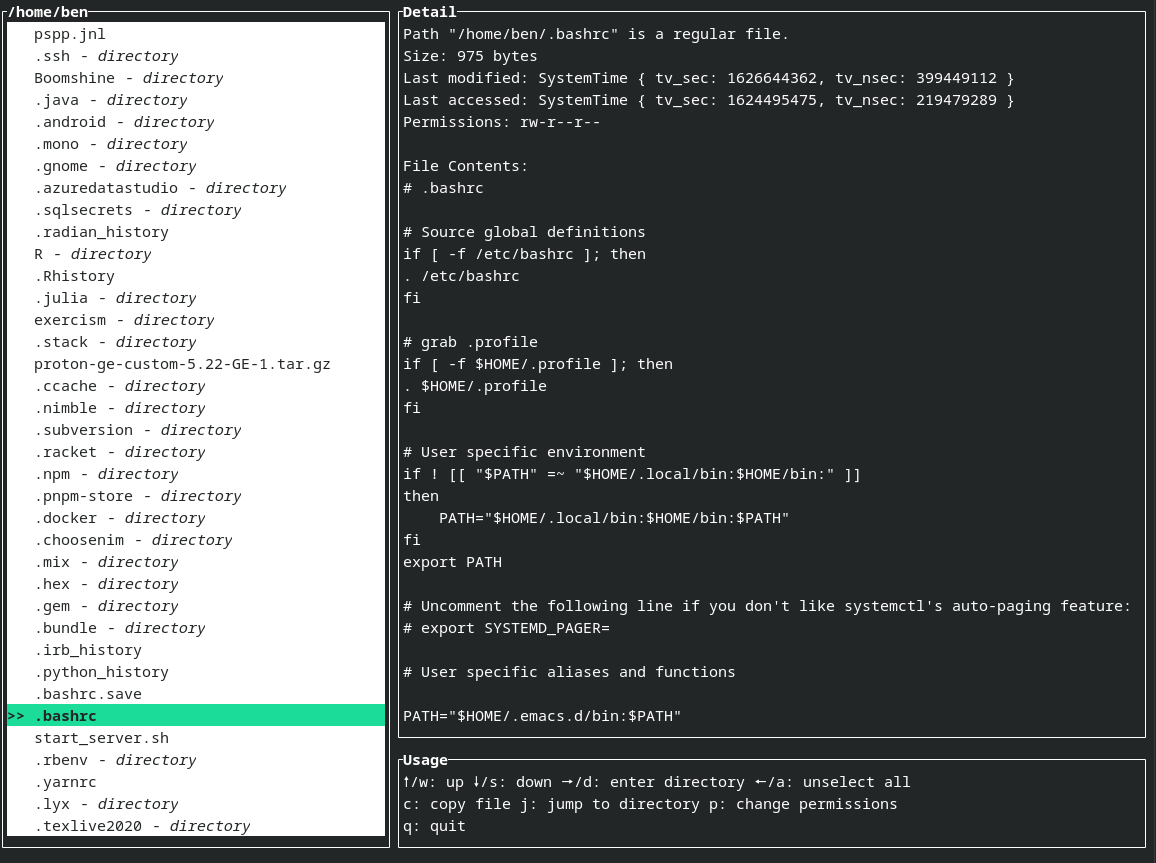
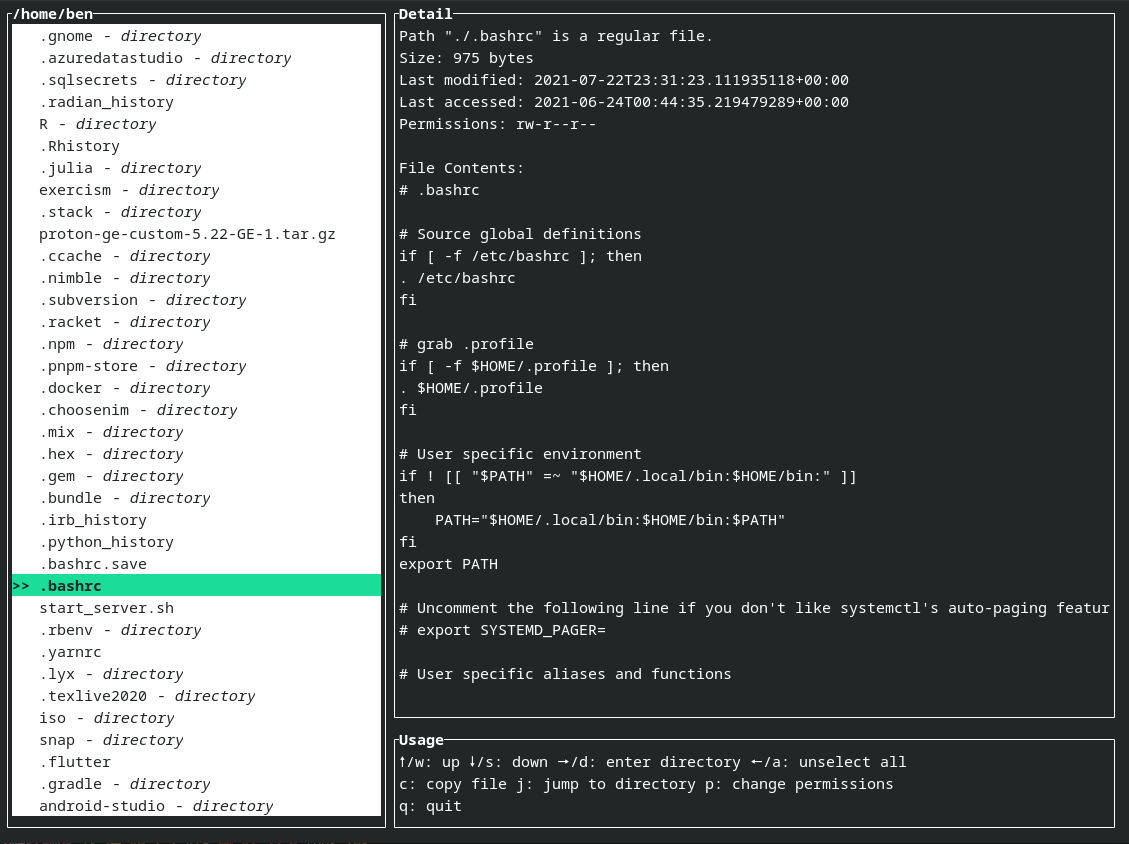
Timestamps (#21)
* Add `chrono` dep

* Fix typos

* Display ISO 8601 datetime

* Update screenshot

Changed region(s): [[0.0, 0.0, 0.992, 0.9858], [0.248, 0.4005, 0.279, 0.4313]]

diff --git a/src/main.rs b/src/main.rs
@@ -30,7 +30,7 @@ mod ui;
 use app::App;
 use events::{Event, Events};
 
-/// Print an error that occured as well as any errors that were chained to get there.
+/// Print an error that occurred as well as any errors that were chained to get there.
 fn print_error(err: Error) {
     let _ = writeln!(stderr(), "error: {}", err);
     for cause in err.chain() {
@@ -44,7 +44,7 @@ fn run() -> Result<()> {
     let stdout = io::stdout().into_raw_mode()?;
     // Enable mouse
     let stdout = MouseTerminal::from(stdout);
-    // Use a separate overaly over exisitng terminal.  On quit, old terminal is restored.
+    // Use a separate overlay over existing terminal.  On quit, old terminal is restored.
     let stdout = AlternateScreen::from(stdout);
 
     // Hook up integration to real terminal

diff --git a/src/app.rs b/src/app.rs
@@ -3,6 +3,9 @@
 // Ergonomic Result and Error types to simply error handling boilerplate
 use anyhow::Result;
 
+// DateTime handling
+use chrono::prelude::{DateTime, Utc};
+
 // For parsing/serializing file permissions
 use libc::{S_IRGRP, S_IROTH, S_IRUSR, S_IWGRP, S_IWOTH, S_IWUSR, S_IXGRP, S_IXOTH, S_IXUSR};
 
@@ -95,7 +98,9 @@ fn string_to_permissions(s: &str) -> Option<u16> {
 /// Helper function to unwrap times which may not come back.
 fn unwrap_time(r: std::result::Result<SystemTime, std::io::Error>) -> String {
     if let Ok(ts) = r {
-        format!("{:?}", ts)
+        // Convert to a readable timestamp
+        let dt: DateTime<Utc> = ts.into();
+        format!("{}", dt.format("%+"))
     } else {
         "never".to_string()
     }

diff --git a/README.md b/README.md
@@ -25,7 +25,7 @@ This program is implemented in Rust, using a handful of dependencies found on [c
 ### Requirements
 
 * **Stable [Rust](https://www.rust-lang.org/tools/install)**:  The default stable toolchain is fine.  Obtainable via `rustup` using the instructions at this link.
-* **`x86_64-unknown-linux-musl`** target: Once `rustup` is installed and ready to use, execute `rustup target add x86_64-unknown-linux-musl`.  Alternatively, you could delete or rename the `.cargo/config.toml` which forces this target.  This program should also build for the default Linux target and run fine on your machine.  To ensure this binary is as portable as possible, this repository is configured to always compile for this alternate target.  In default builds, Rust statically links all your dependenices but still dynamically links to the system `libc`, which means incompatible versions may prevent the executable from running.  Using this alternate `libc` alows even this to be statically linked, removing the runtime dependency on a minumum installed version.
+* **`x86_64-unknown-linux-musl`** target: Once `rustup` is installed and ready to use, execute `rustup target add x86_64-unknown-linux-musl`.  Alternatively, you could delete or rename the `.cargo/config.toml` which forces this target.  This program should also build for the default Linux target and run fine on your machine.  To ensure this binary is as portable as possible, this repository is configured to always compile for this alternate target.  In default builds, Rust statically links all your dependencies but still dynamically links to the system `libc`, which means incompatible versions may prevent the executable from running.  Using this alternate `libc` allows even this to be statically linked, removing the runtime dependency on a minimum installed version.
 
 ### Build
 
@@ -33,8 +33,9 @@ Clone or download this repository.  Enter the project directory containing `Carg
 
 ### Crates
 
-* [anyhow](https://github.com/dtolnay/anyhow) - Ergonomic error handling.
-* [libc](https://github.com/rust-lang/libc) - FFI bindings to libc.
-* [termion](https://gitlab.redox-os.org/redox-os/termion) - Low-level terminal interface (like ncurses but not).
-* [tui-rs](https://github.com/fdehau/tui-rs) - Widget-based terminal user interface library.
-* [unicode-width](https://unicode-rs.github.io/unicode-width/unicode_width/index.html) - Unicode string width on screen.
+* [anyhow](https://github.com/dtolnay/anyhow) - Ergonomic error handling
+* [chrono](https://github.com/chronotope/chrono) - Date and time handling
+* [libc](https://github.com/rust-lang/libc) - FFI bindings to libc
+* [termion](https://gitlab.redox-os.org/redox-os/termion) - Low-level terminal interface (like ncurses but not)
+* [tui-rs](https://github.com/fdehau/tui-rs) - Widget-based terminal user interface library
+* [unicode-width](https://unicode-rs.github.io/unicode-width/unicode_width/index.html) - Unicode string width on screen
